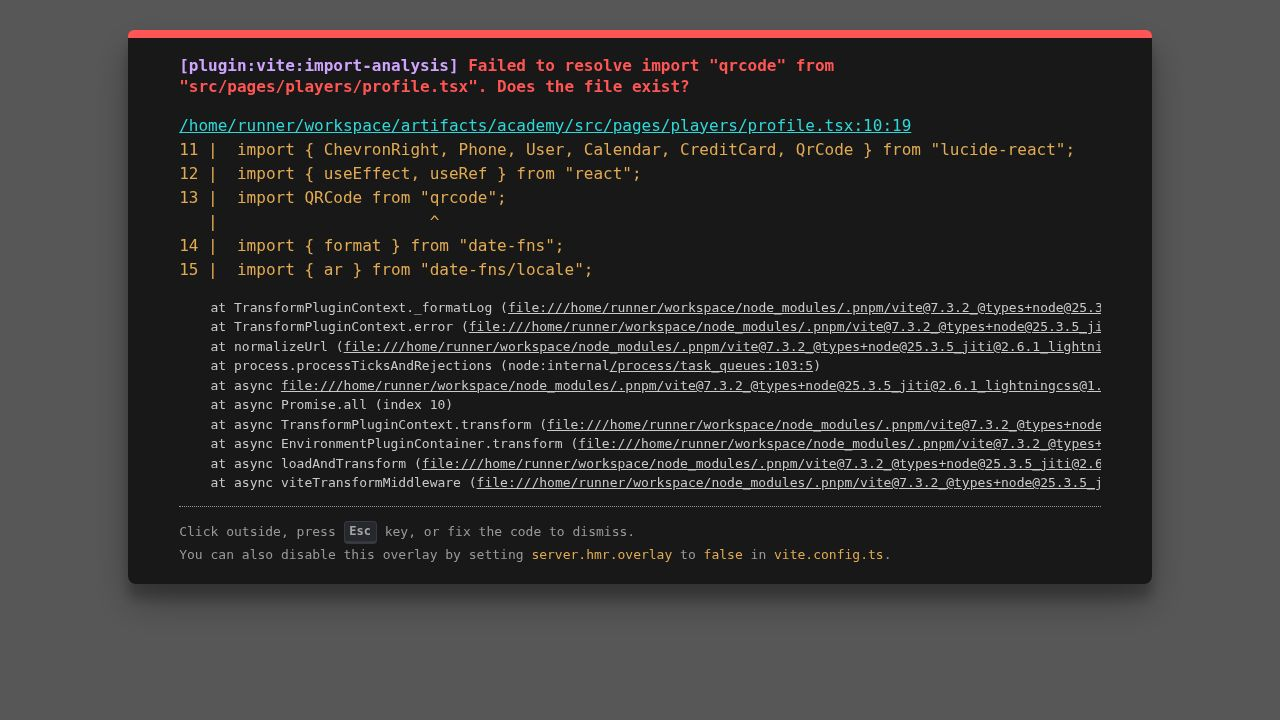
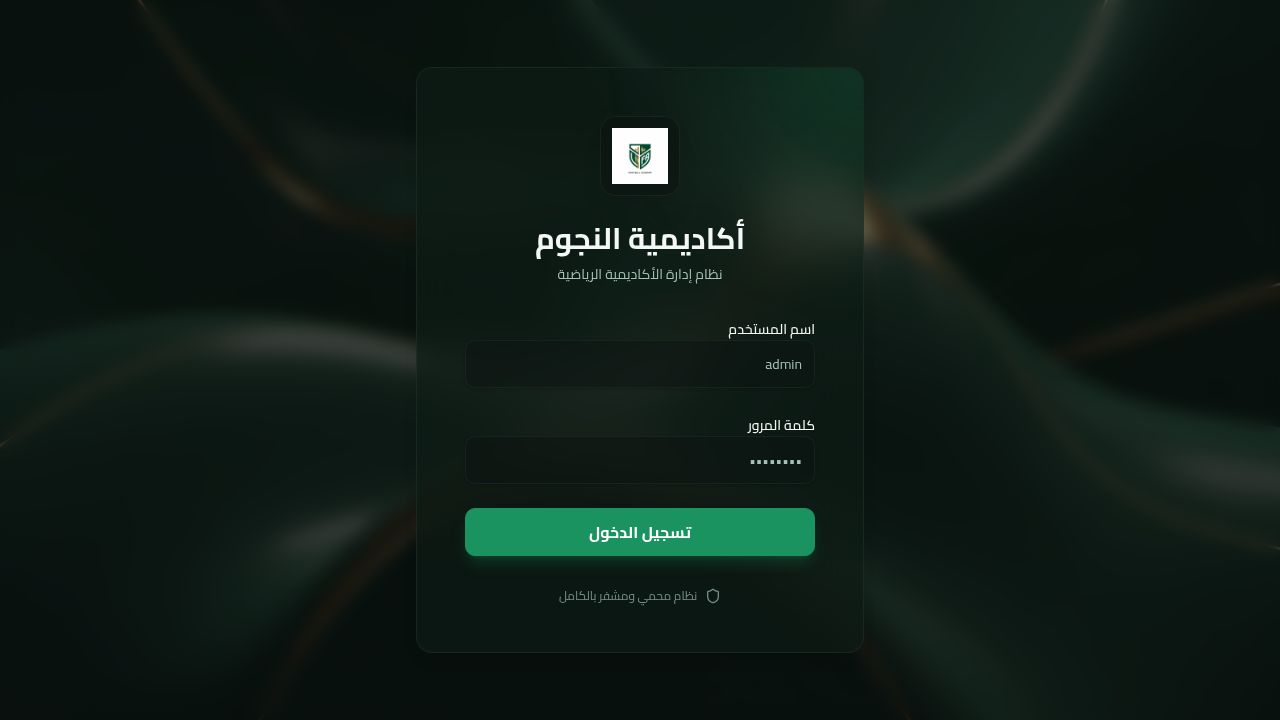
Add files via upload

diff --git a/index.html b/index.html
@@ -8,8 +8,8 @@
     <link rel="preconnect" href="https://fonts.googleapis.com">
     <link rel="preconnect" href="https://fonts.gstatic.com" crossorigin>
     <link href="https://fonts.googleapis.com/css2?family=Cairo:wght@400;500;600;700;800&display=swap" rel="stylesheet">
-    <script type="module" crossorigin src="./assets/index-E1byjyC8.js"></script>
-    <link rel="stylesheet" crossorigin href="./assets/index-DUbQzuxi.css">
+    <script type="module" crossorigin src="./assets/index-B0gthYaQ.js"></script>
+    <link rel="stylesheet" crossorigin href="./assets/index-DQVmfr4x.css">
   </head>
   <body>
     <div id="root"></div>

diff --git a/SETUP-FIREBASE.md b/SETUP-FIREBASE.md
@@ -102,8 +102,21 @@ https://USERNAME.github.io/academy-app/
 ### الصور
 صور اللاعبين بتتخزن داخل قاعدة البيانات نفسها (base64). لو هتضيف صور كتير، يفضل تستخدم **Firebase Storage** لاحقاً.
 
-### الرسائل (SMS)
-مفيش مزود رسائل متربط. الرسائل بس بتتسجل في قاعدة البيانات في صفحة **الرسائل** للأرشيف.
+### الرسائل (واتساب)
+بعد ما تسجّل دفعة الاشتراك، التطبيق هيفتح **واتساب** على جهازك تلقائياً برسالة الإيصال جاهزة، وعليك بس تضغط **إرسال** داخل واتساب.
+
+- لو كنت بتفتح التطبيق من الموبايل، هيفتح تطبيق WhatsApp مباشرة.
+- لو كنت من الكمبيوتر، هيفتح [WhatsApp Web](https://web.whatsapp.com).
+- في صفحة **الرسائل** ممكن تضغط على زر "إرسال عبر واتساب" لإعادة إرسال أي رسالة قديمة.
+
+> ⚠️ **رمز الدولة:** الرمز الافتراضي حالياً مصر `+20`. لو الأكاديمية في دولة تانية، عدّل الرقم في ملف `src/lib/whatsapp.ts` السطر `DEFAULT_COUNTRY_CODE`.
+
+### الحضور والانصراف
+- في صفحة **الحضور والانصراف** هتلاقي كل الموظفين في اليوم المحدد، حتى لو لسه ما اتسجلش لهم حضور.
+- 4 أزرار لكل موظف: **حضور / تأخير / انصراف / غياب**
+- زر **التأخير** بيفتح نافذة تطلب عدد الدقائق (في اختيارات سريعة: 15د، 30د، ساعة، ساعة ونص، ساعتين)
+- جزء **البحث وإحصائيات الموظف** بيعرض إجمالي أيام الحضور والتأخير والغياب وإجمالي ساعات التأخير في الشهر للموظف اللي تختاره.
+- الإجازات المعتمدة من صفحة **الإجازات** بتظهر تلقائياً في صفحة الحضور بحالة "إجازة" وكمان في **الرواتب** كخصومات.
 
 ### إعادة البناء
 لو غيرت أي حاجة في الكود، شغّل: